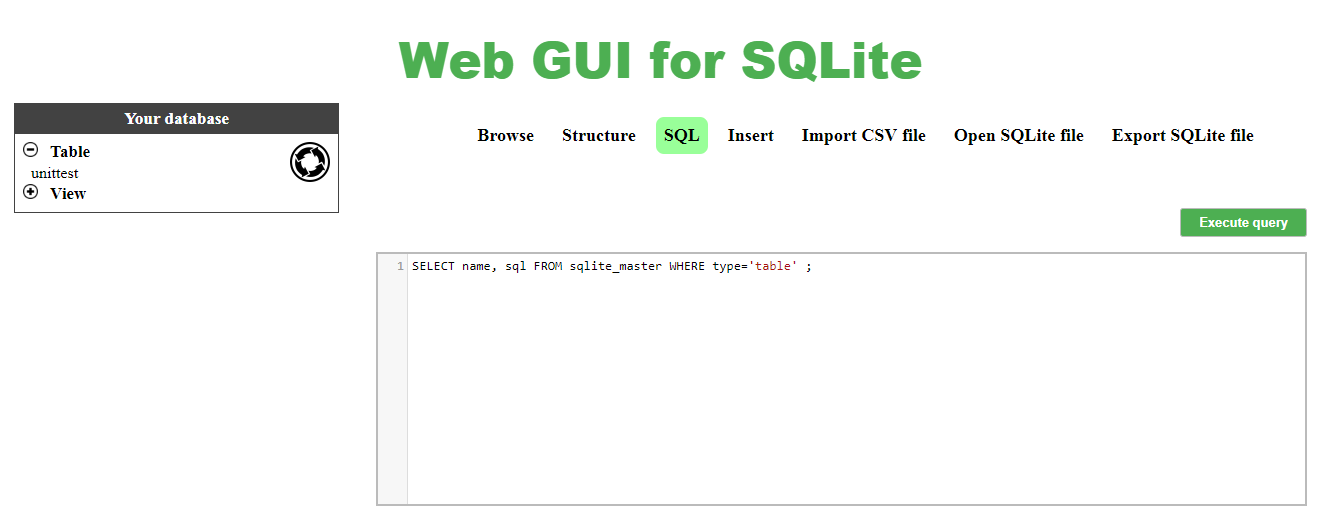
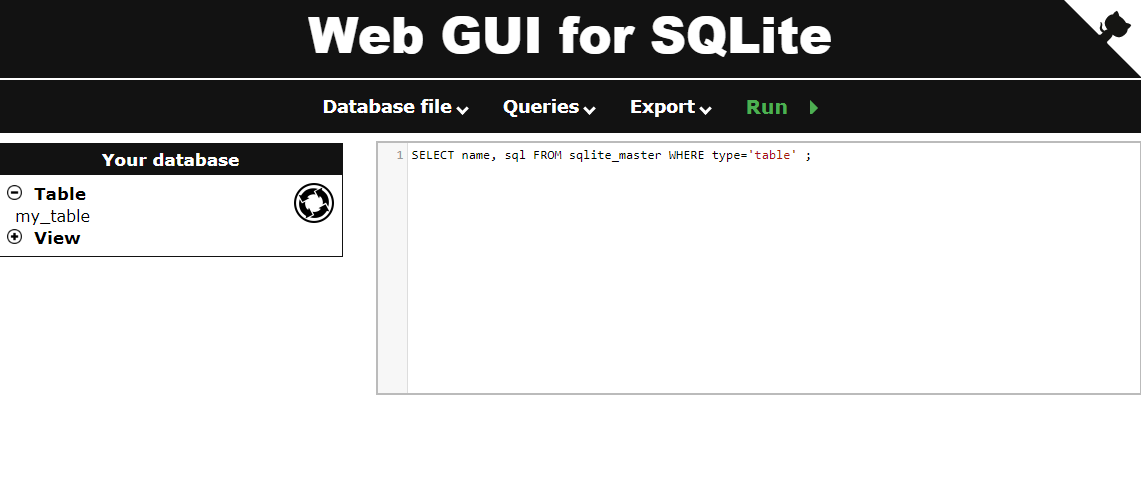
New look

diff --git a/README.md b/README.md
@@ -11,7 +11,8 @@ Try the demo here: [https://extendsclass.com/sqlite-browser.html](https://extend
 ## Dependencies 
 
 This tool required:
- * [CodeMirror](https://github.com/codemirror/CodeMirror) (MIT license)
+ * [a11y-dialog](https://github.com/edenspiekermann/a11y-dialog) (MIT license)
+ * [codeMirror](https://github.com/codemirror/CodeMirror) (MIT license)
  * [sql.js](https://github.com/kripken/sql.js/) (MIT license)
 
 ## Install
